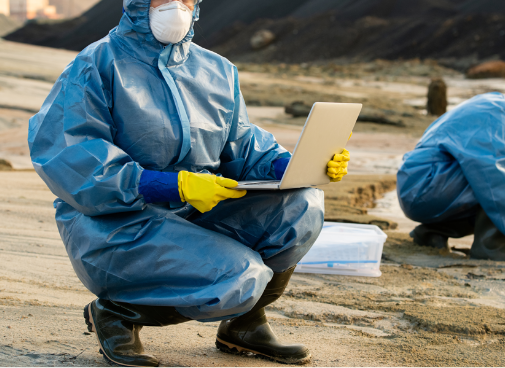
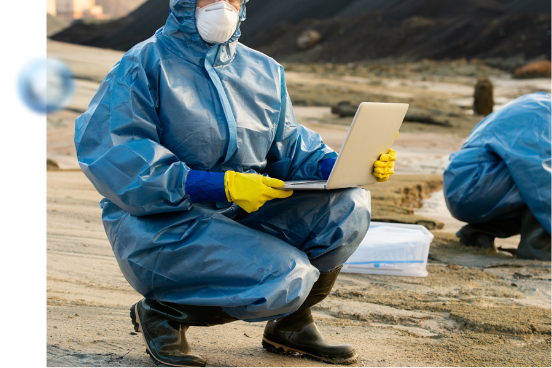
Avance hll4

diff --git a/src/views/Tema2.vue b/src/views/Tema2.vue
@@ -9,38 +9,38 @@
     .row.justify-content-center
        p Las plantas encargadas del tratamiento de las aguas residuales permiten contener el agua contaminada, con el fin de llevarlas a un proceso que haga posible su reutilización en varios campos, algunos de estos elementos dentro del proceso de operación son:
     SlyderF.mb-5(columnas="col-lg-6 col-xl-4")
-      .tarjeta.p-4.tranform1.h-100
+      .tarjeta.p-4.tranform1.h-100.hoverScale2
         .row.mb-3
           .col-8
             img.img106(src='@/assets/curso/tema2/img01.svg' alt='AvatarTop')
         h2 Sistema de rejas
         p El cual es el medio por el que el cual el agua residual ingresa con algunos elementos pesados como arena, piedras, grasa, sólidos, entre otros, con este sistema se instalan una serie de rejillas dentro del canal de tal forma que estos obstáculos más grandes queden atrapados en la primera etapa. 
 
-      .tarjeta.p-4.tranform1.h-100
+      .tarjeta.p-4.tranform1.h-100.hoverScale2
         .row.mb-3
           .col-8
             img.img106(src='@/assets/curso/tema2/img01.svg' alt='AvatarTop')
         h2 Los desarenadores y desengrasadores
         p Los cuales son tanques de flujo continuo que separa la arena del líquido sin separar los sólidos orgánicos, usualmente este proceso puede ser usado también como desengrasador de manera moderada para lograr una mayor purificación del agua.
-      .tarjeta.p-4.tranform1.h-100
+      .tarjeta.p-4.tranform1.h-100.hoverScale2
         .row.mb-3
           .col-8
             img.img106(src='@/assets/curso/tema2/img01.svg' alt='AvatarTop')
         h2 El decantador
         p Es otro elemento de este proceso y se encarga de separar diferentes componentes líquidos por densidad. Este proceso se realiza a través de la fuerza de gravedad haciendo que estos líquidos más densos vayan al fondo del decantador.
-      .tarjeta.p-4.tranform1.h-100 
+      .tarjeta.p-4.tranform1.h-100.hoverScale2 
         .row.mb-3
           .col-8
             img.img106(src='@/assets/curso/tema2/img01.svg' alt='AvatarTop')
         h2 El reactor biológico
         p Usado para la asimilación de la materia orgánica y los nutrientes disueltos en el agua residual.
-      .tarjeta.p-4.tranform1.h-100
+      .tarjeta.p-4.tranform1.h-100.hoverScale2
         .row.mb-3
           .col-8
             img.img106(src='@/assets/curso/tema2/img01.svg' alt='AvatarTop')
         h2 El tanque para el tratamiento físico químico
         p Que permite alterar el estado físico de componentes en el agua como el aluminio, hidróxido o hierro y, que logran eliminar el 80 y 90% de dicha materia suspendida.
-      .tarjeta.p-4.tranform1.h-100
+      .tarjeta.p-4.tranform1.h-100.hoverScale2
         .row.mb-3
           .col-8
             img.img106(src='@/assets/curso/tema2/img01.svg' alt='AvatarTop')
@@ -59,7 +59,8 @@
             img.posit_1(src='@/assets/curso/tema2/img19.png' alt='AvatarTop')
           .bloque-texto-g__texto.p-5.posit_2
             p.mb-0 Para establecer un sistema que ponga en marcha todo el proceso de tratamiento de aguas residuales para el consumo potable, es necesario establecer un sistema de captaciones, líneas de conducción, planta de tratamiento, reservorio, redes de distribución y conexiones domiciliarias y/o públicas.
-    
+            img.posit1.img93(src="@/assets/curso/tema3/img22.png")  
+
     p.m-0.mb-5 Siendo así, a continuación, podrán observar el proceso de tratamiento de aguas residuales para el consumo potable:
     
     TabsB.color-acento-contenido.mb-5

diff --git a/src/views/Tema3.vue b/src/views/Tema3.vue
@@ -95,8 +95,9 @@
             :style="{'background-image': `url(${require('@/assets/curso/tema3/img09.png')})`}"
           )
           .bloque-texto-g__texto.p-4
-            p.mb-0 Expuesto lo anterior, es importante que el <strong>sistema general de riesgos laborales establezca todas aquellas actividades de promoción y prevención que logren mejorar las condiciones de trabajo y de salud</strong> de todos los empleadores, esto implica, además, protegerlos de los riesgos individuales o colectivos que puedan derivarse de la empresa sean estos físicos, químicos o biológicos.
-   
+            p.mb-0 Expuesto lo anterior, es importante que el <b>sistema general de riesgos laborales establezca todas aquellas actividades de promoción y prevención que logren mejorar las condiciones de trabajo y de salud</b> de todos los empleadores, esto implica, además, protegerlos de los riesgos individuales o colectivos que puedan derivarse de la empresa sean estos físicos, químicos o biológicos.
+            img.posit1.img93(src="@/assets/curso/tema3/img22.png")  
+
     p.m-0 Además, es importante establecer prestaciones de atención para la salud de los trabajadores y también las respectivas prestaciones económicas por la incapacidad temporal a que haya lugar frente a las contingencias de accidentes de trabajo y/o enfermedades laborales; al trabajador debe dársele la garantía de que sus derechos y sus necesidades como trabajador serán tenidas en cuenta y cumplidas por parte de la organización. Ligado a esto, se debe también hacer un reconocimiento para estas incapacidades permanentes, parciales o por invalidez, el empleador que no cumpla con la afiliación de sus trabajadores al Sistema General de Riesgos Laborales, además de las sanciones legales, será responsable de las prestaciones que se otorgan en el Decreto Ley 1295.
 
     separador

diff --git a/src/styles/_custom.sass b/src/styles/_custom.sass
@@ -158,15 +158,15 @@
   &_1
     position: absolute
     top: -65px
-    left: 92px
-    width: 54%
+    left: 68px
+    width: 64%
     @media screen and ( max-width: 420px )
       left: 21px
       width: 71%
       top: -58px
     @media screen and ( max-width: 1300px )
       left: 57px
-      width: 60%
+      width: 70%
       top: -48px
   &_2
     @media screen and ( max-width: 420px  )
@@ -183,9 +183,20 @@
 .bgr
   background-color: #CFE8FE
 
-
+.bloque-texto-g__texto 
+  width: 70%
+  @media screen and ( max-width: 420px  )
+    width: 100%!important
       
-    
+.posit1
+  position: absolute
+  top: 140px
+  right: -93px
+  @media screen and ( max-width: 420px )
+    top: 320px
+    right: -30px  
+.img93
+  width: 93px
   
 .banner-principal p
   color: #12263F
@@ -386,6 +397,12 @@
 
   &:hover
     background: #FFBC42
+.hoverScale2
+  transition: all .3s ease-in-out
+  &:hover
+    transform: scale(1.1)
+    background-color:#FFBC42
+
 
 .img106
   max-width: 106px

diff --git a/src/views/Introduccion.vue b/src/views/Introduccion.vue
@@ -10,7 +10,7 @@
           
       h1 Introducción
     p(data-aos="fade-right") Bienvenidos a este componente formativo, donde como primera instancia, vamos a ver el siguiente video que nos dará una introducción general a la temática a tratar, para luego empezar a desarrollar cada uno de los contenidos:
-    .bgvideos.py-5.px-5.px-md-0
+    .bgvideos.py-2.py-md-5.px-2.px-md-0
       .row.justify-center
         .col-lg-10
           figure
